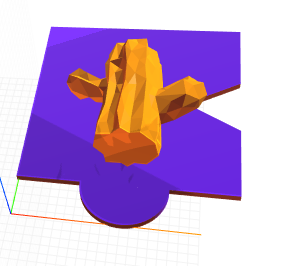
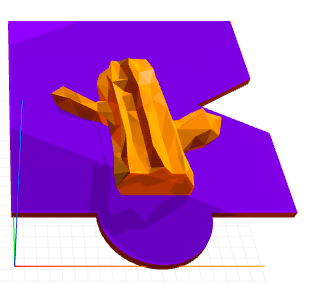
word stl cropped in z-axis

diff --git a/contents/books/word-puzzles/cactus/index.md b/contents/books/word-puzzles/cactus/index.md
@@ -12,7 +12,11 @@ Octopus
     <craft name="cactus" stl="cactus.stl"/>
     <scale factor="2">
         <stack>
-            <cactus></cactus>
+		      <crop z="50,0">
+		  	        <rotate axis="y" degrees="12">
+                    <cactus></cactus>
+			        </rotate>
+			    </crop>
             <scale x="1.5" y="1.5">
                 <puzzle side1="+circle" side4="-triangle">
                 </puzzle>

diff --git a/contents/books/word-puzzles/palmtree/index.md b/contents/books/word-puzzles/palmtree/index.md
@@ -12,7 +12,9 @@ Octopus
     <craft name="palmtree" stl="palmtree.stl"/>
     <scale factor="2">
         <stack>
+		  	<crop z="50,0">
             <palmtree></palmtree>
+			</crop>
             <scale x="1.5" y="1.5">
                 <puzzle side1="+triangle" side2="-triangle" side3="-circle">
                 </puzzle>

diff --git a/contents/books/word-puzzles/pelican/index.md b/contents/books/word-puzzles/pelican/index.md
@@ -12,7 +12,7 @@ Pelican
     <craft name="pelican" stl="pelican.stl"/>
     <scale factor="2">
     	<stack>
-			<crop z="10">
+			<crop z="50,0">
          	<pelican></pelican>
 			</crop>
          <scale x="1.5" y="1.5">
